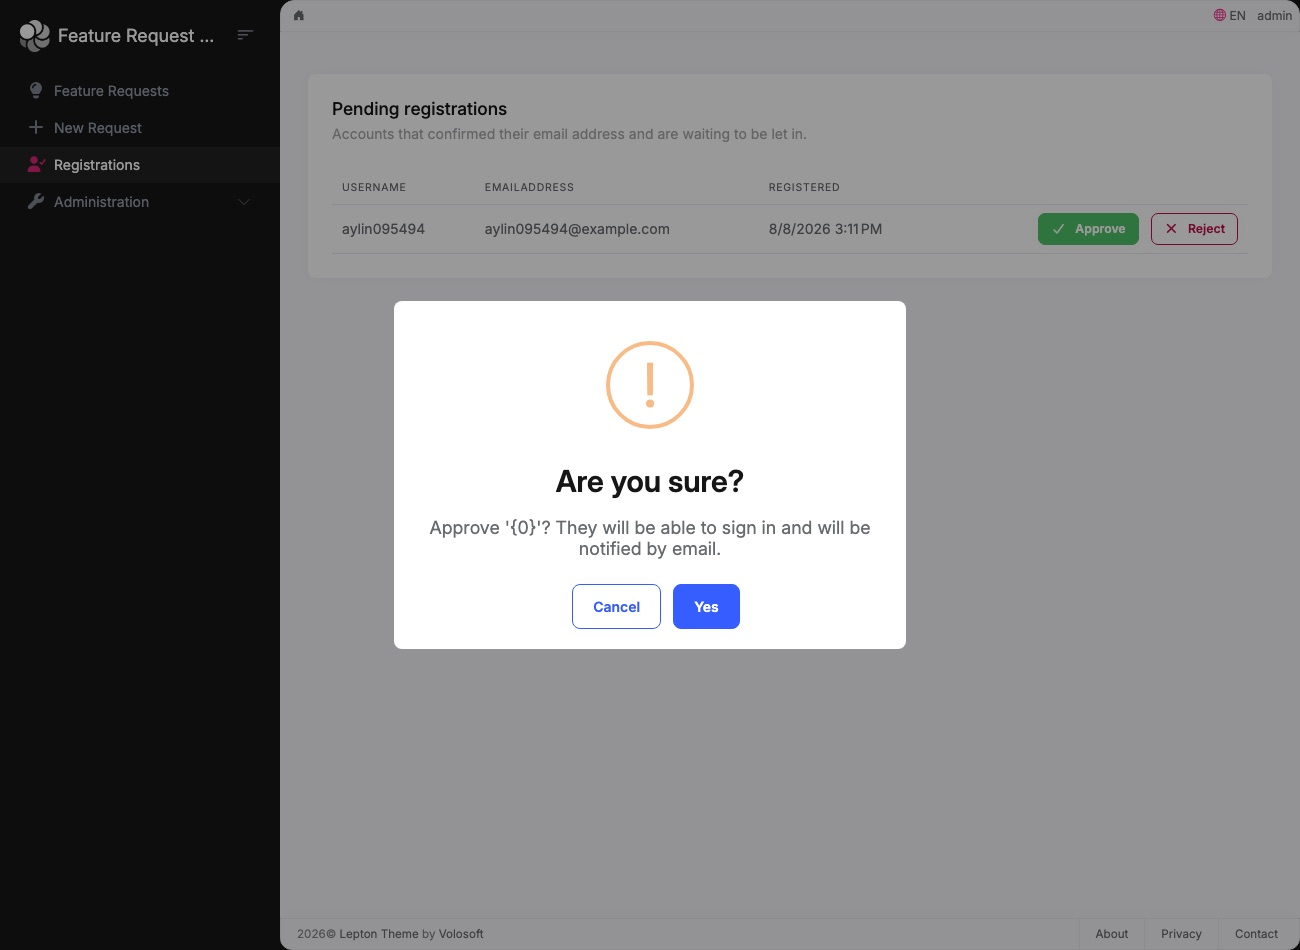
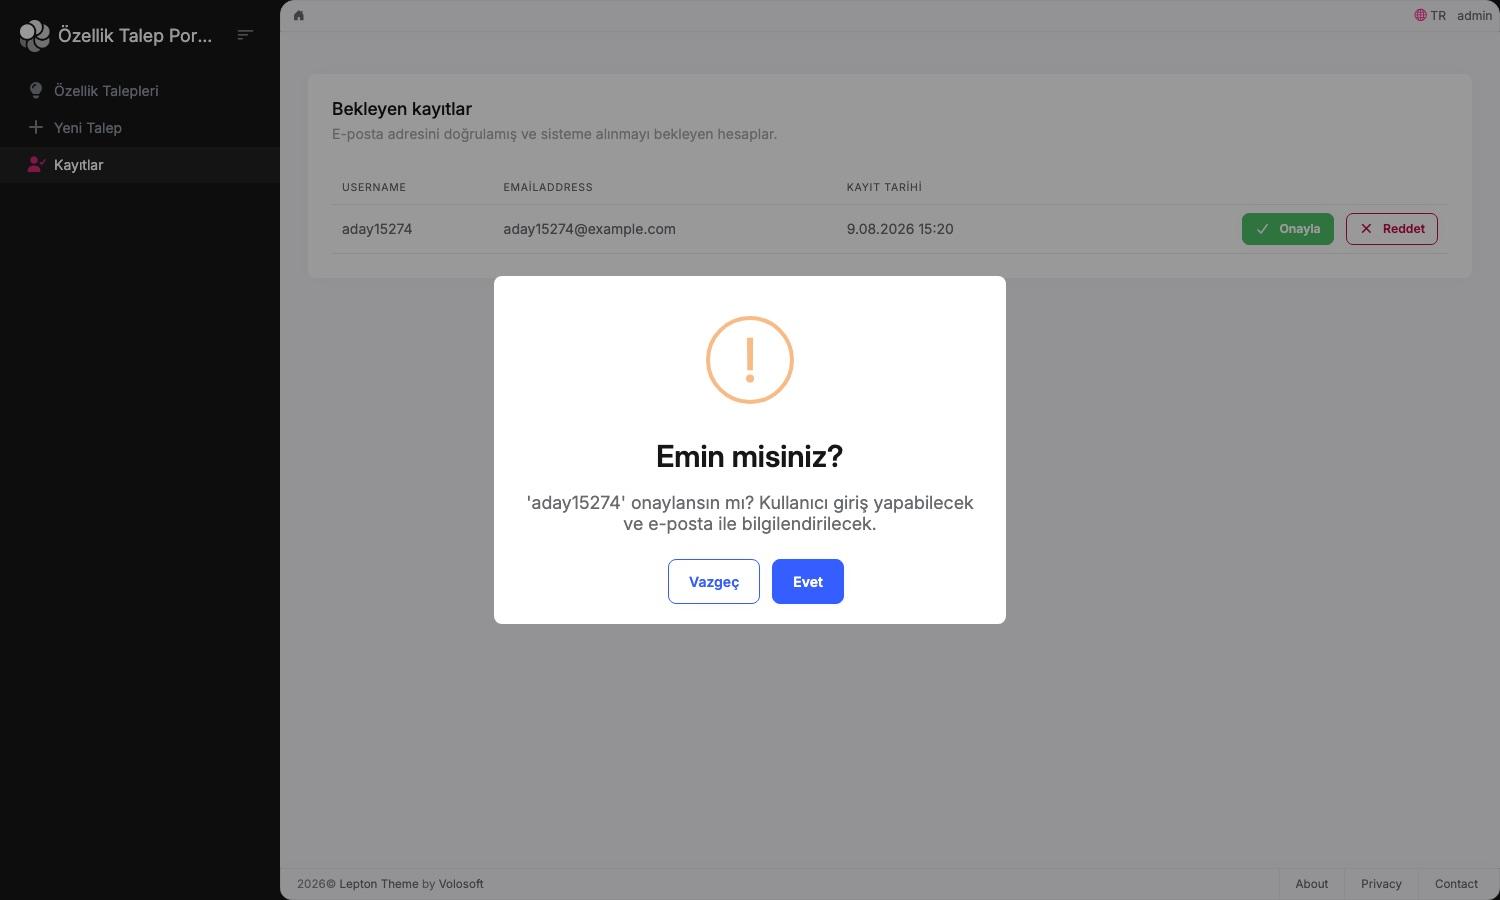
feat(web): drop ABP's Administration menu from the navigation
The brief describes a feature request portal, not a back office. ABP's
Administration group (identity, roles, settings, tenants) came with the
template and had nothing to do with what was asked, so the navigation now
shows only the three things the assignment describes. Permissions are
seeded, so nothing depends on those screens being reachable.

Removed via TryRemoveMenuItem rather than GetAdministration(): the latter
throws when the item is absent, and it is absent in the test host, which
does not load the admin web modules - it took the web smoke test down
before I switched.

Also fixes a placeholder that was showing through on the approval dialog.
It read Approve '{0}'? because the view's L is an IHtmlLocalizer, whose
.Value returns the raw resource string with the argument unapplied. The
message is built in the page model now, where L does format it - the same
trap the delete confirmation hit earlier.

Screenshots that included the old sidebar are retaken.

diff --git a/src/FeatureRequestPortal.Web/Menus/FeatureRequestPortalMenuContributor.cs b/src/FeatureRequestPortal.Web/Menus/FeatureRequestPortalMenuContributor.cs
@@ -1,11 +1,7 @@
 using System.Threading.Tasks;
 using FeatureRequestPortal.Localization;
 using FeatureRequestPortal.Permissions;
-using FeatureRequestPortal.MultiTenancy;
 using Microsoft.Extensions.DependencyInjection;
-using Volo.Abp.Identity.Web.Navigation;
-using Volo.Abp.SettingManagement.Web.Navigation;
-using Volo.Abp.TenantManagement.Web.Navigation;
 using Volo.Abp.UI.Navigation;
 using Volo.Abp.Users;
 
@@ -23,7 +19,6 @@ public class FeatureRequestPortalMenuContributor : IMenuContributor
 
     private async Task ConfigureMainMenuAsync(MenuConfigurationContext context)
     {
-        var administration = context.Menu.GetAdministration();
         var l = context.GetLocalizer<FeatureRequestPortalResource>();
 
         context.Menu.Items.Insert(
@@ -81,18 +76,12 @@ public class FeatureRequestPortalMenuContributor : IMenuContributor
             );
         }
 
-        if (MultiTenancyConsts.IsEnabled)
-        {
-            administration.SetSubItemOrder(TenantManagementMenuNames.GroupName, 1);
-        }
-        else
-        {
-            administration.TryRemoveMenuItem(TenantManagementMenuNames.GroupName);
-        }
-
-        administration.SetSubItemOrder(IdentityMenuNames.GroupName, 2);
-        administration.SetSubItemOrder(SettingManagementMenuNames.GroupName, 3);
-
-
+        /* The brief asks for a feature request portal, not a back office. ABP's Administration
+         * menu (identity, roles, settings, tenants) is dropped so the navigation only shows what
+         * the assignment describes. Permissions still come from the seeder, so nothing depends on
+         * those screens being reachable. */
+        /* TryRemoveMenuItem rather than GetAdministration(): the latter throws when the item is
+         * absent, and it is absent in the test host, which does not load the admin web modules. */
+        context.Menu.TryRemoveMenuItem(DefaultMenuNames.Application.Main.Administration);
     }
 }

diff --git a/src/FeatureRequestPortal.Web/Pages/Accounts/PendingRegistrations.cshtml.cs b/src/FeatureRequestPortal.Web/Pages/Accounts/PendingRegistrations.cshtml.cs
@@ -25,6 +25,19 @@ public class PendingRegistrationsModel : FeatureRequestPortalPageModel
         PendingUsers = await _userApprovalAppService.GetPendingAsync();
     }
 
+    /* Built here rather than in the view: the view's L is an IHtmlLocalizer, whose .Value hands
+     * back the raw resource string and leaves the {0} placeholder unformatted. The page model's
+     * L is a string localizer and does apply the argument. */
+    public string ApproveConfirmationMessage(string userName)
+    {
+        return L["AreYouSureToApprove", userName];
+    }
+
+    public string RejectConfirmationMessage(string userName)
+    {
+        return L["AreYouSureToReject", userName];
+    }
+
     public async Task<IActionResult> OnPostApproveAsync(Guid userId)
     {
         await _userApprovalAppService.ApproveAsync(userId);
